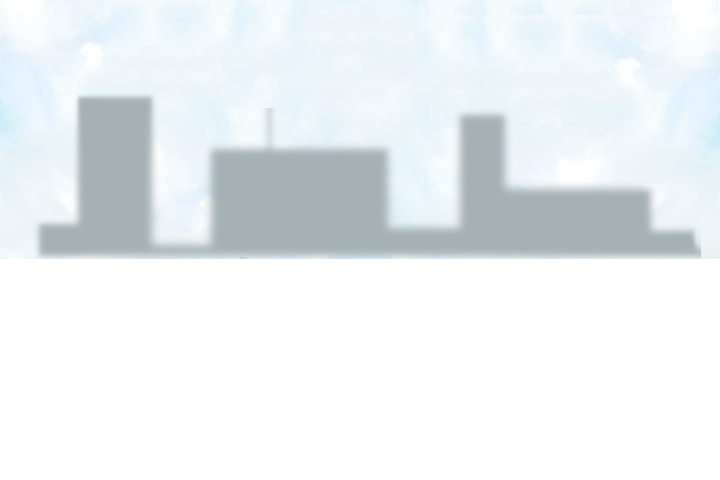
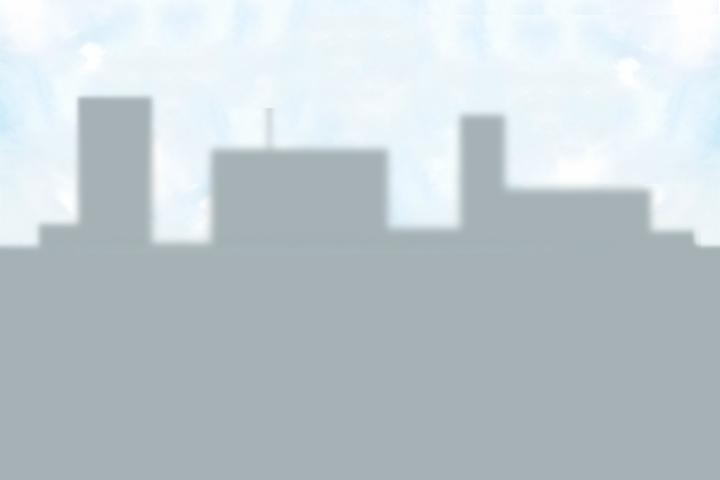
Background optimiert

diff --git a/Medieninformatik_Projekt/src/Player.java b/Medieninformatik_Projekt/src/Player.java
@@ -10,6 +10,12 @@ public class Player extends PApplet {
 	final int MAX_X = 340; // Maximal X-Koordinate beim Laufen
 	final int PLAYER_HEIGHT = 60;
 	final int PLAYER_WIDTH = 42;
+	
+	// Bilder
+	PImage idleImage;
+	PImage run1Image;
+	PImage run2Image;
+	PImage jumpImage;
 
 	// Zustände:
 	// vorwärts-blockiert, rückwärts-blockiert, kollision, stehen, rückwärts
@@ -33,6 +39,16 @@ public class Player extends PApplet {
 		this.x = x;
 		this.y = y;
 		this.states[3] = true; // Idle
+		
+		// Bilder laden
+		this.idleImage = this.game.app.loadImage(game.DEFAULT_IMAGEPATH
+				+ "hero_idle.png");
+		this.run1Image = this.game.app.loadImage(game.DEFAULT_IMAGEPATH
+				+ "hero_run1.png");
+		this.run2Image = this.game.app.loadImage(game.DEFAULT_IMAGEPATH
+				+ "hero_run2.png");
+		this.jumpImage = this.game.app.loadImage(game.DEFAULT_IMAGEPATH
+				+ "hero_jump.png");
 	}
 
 	public void movePlayer(int x, int y) {
@@ -49,22 +65,18 @@ public class Player extends PApplet {
 		// Spielfigurbild zeichnen:
 		// Stehen
 		if (this.states[3] && this.isJumped == false) {
-			this.playerImage = this.game.app.loadImage(game.DEFAULT_IMAGEPATH
-					+ "hero_idle.png");
+			this.playerImage = this.idleImage;
 		}
 
 		// Springen
 		if (this.isJumped && this.states[3]) {
-			this.playerImage = this.game.app.loadImage(game.DEFAULT_IMAGEPATH
-					+ "hero_jump.png");
+			this.playerImage = this.jumpImage;
 		} else if (this.isJumped == false && this.states[3] == false) {
 			// Laufen
 			if (this.delay < 5) {
-				this.playerImage = this.game.app
-						.loadImage(game.DEFAULT_IMAGEPATH + "hero_run1.png");
+				this.playerImage = this.run1Image;
 			} else {
-				this.playerImage = this.game.app
-						.loadImage(game.DEFAULT_IMAGEPATH + "hero_run2.png");
+				this.playerImage = this.run2Image;
 			}
 		}
 

diff --git a/Medieninformatik_Projekt/src/Background.java b/Medieninformatik_Projekt/src/Background.java
@@ -26,21 +26,21 @@ public class Background {
 		this.game.app.beginShape(this.game.app.QUADS);
 		this.game.app.texture(this.backgroundImage);
 		this.game.app.vertex(this.x, this.y + 0, 1, 0, 0);
-		this.game.app.vertex(this.x + game.WINDOW_WIDTH, this.y + 0, 1, 1, 0);
-		this.game.app.vertex(this.x + game.WINDOW_WIDTH, this.y + game.WINDOW_HEIGHT, 1, 1, 1);
-		this.game.app.vertex(this.x, this.y + game.WINDOW_HEIGHT, 1, 0, 1);
+		this.game.app.vertex(this.x + this.backgroundImage.width, this.y + 0, 1, 1, 0);
+		this.game.app.vertex(this.x + this.backgroundImage.width, this.y + this.backgroundImage.height, 1, 1, 1);
+		this.game.app.vertex(this.x, this.y + this.backgroundImage.height, 1, 0, 1);
 		this.game.app.endShape();
 
 		// Endloser Hintergrund 
 		this.game.app.beginShape(this.game.app.QUADS);
 		this.game.app.texture(this.backgroundImage);
-		this.game.app.vertex(this.x + game.WINDOW_WIDTH, this.y + 0, 1, 0, 0);
-		this.game.app.vertex(this.x + game.WINDOW_WIDTH * 2, this.y + 0, 1, 1, 0);
-		this.game.app.vertex(this.x + game.WINDOW_WIDTH * 2, this.y + game.WINDOW_HEIGHT, 1, 1, 1);
-		this.game.app.vertex(this.x + game.WINDOW_WIDTH, this.y + game.WINDOW_HEIGHT, 1, 0, 1);
+		this.game.app.vertex(this.x + this.backgroundImage.width, this.y + 0, 1, 0, 0);
+		this.game.app.vertex(this.x + this.backgroundImage.width * 2, this.y + 0, 1, 1, 0);
+		this.game.app.vertex(this.x + this.backgroundImage.width * 2, this.y + this.backgroundImage.height, 1, 1, 1);
+		this.game.app.vertex(this.x + this.backgroundImage.width, this.y + this.backgroundImage.height, 1, 0, 1);
 		this.game.app.endShape();
 
-		if (this.x < game.WINDOW_WIDTH * (-1)) {
+		if (this.x < this.backgroundImage.width * (-1)) {
 			this.x = 0;
 		}
 		// ...

diff --git a/Medieninformatik_Projekt/src/Level.java b/Medieninformatik_Projekt/src/Level.java
@@ -21,6 +21,7 @@ public class Level {
 	// Level starten
 	public Level(Game game) {
 		this.game = game;
+		this.logoImage = this.game.app.loadImage(game.DEFAULT_IMAGEPATH + "logo.png");
 		this.levelShadowBackground = new Background(game, game.DEFAULT_IMAGEPATH
 				+ "shadowbg.png");
 		this.levelBackground = new Background(game, game.DEFAULT_IMAGEPATH
@@ -71,18 +72,20 @@ public class Level {
 		this.levelShadowBackground.drawBackground();
 		this.levelBackground.drawBackground();
 		this.hero.drawPlayer();
-	//	this.logoImage = this.game.app.loadImage(game.DEFAULT_IMAGEPATH + "logo.png");
+		
+		this.game.app.noStroke();
 		this.game.app.beginShape();
 		this.game.app.texture(logoImage);
-		this.game.app.vertex(10, 10, 3, 0, 0);
-		this.game.app.vertex(300, 10, 3, 1, 0);
-		this.game.app.vertex(300, 100, 3, 1, 1);
-		this.game.app.vertex(10, 100, 3, 0, 1);
+		this.game.app.vertex(0+15, 0+15, 3, 0, 0);
+		this.game.app.vertex(168+15, 0+15, 3, 1, 0);
+		this.game.app.vertex(168+15, 30+15, 3, 1, 1);
+		this.game.app.vertex(0+15, 30+15, 3, 0, 1);
+		this.game.app.endShape();
+		
 		this.game.app.textSize(24);
 		this.game.app.text("CreditPoints: " + this.game.sumCreditPoints, 500,
 				34, 2);
 		this.game.app.fill(0, 0, 0);
-		this.game.app.endShape();
 
 		inMission = false;
 

diff --git a/Medieninformatik_Projekt/src/Mission.java b/Medieninformatik_Projekt/src/Mission.java
@@ -104,17 +104,6 @@ public class Mission {
 					this.isSolved = true;
 				}
 
-				// Spieler vorbewegen
-				// for (LvlObject lvlObject : this.game.hsrwLvl.lvlObjects) {
-				// if (lvlObject.mission != null) {
-				// if (lvlObject.collided) {
-				// this.game.hsrwLvl.hero.movePlayer(
-				// this.game.hsrwLvl.hero.PLAYER_WIDTH
-				// + lvlObject.width, 0);
-				// }
-				// }
-				// }
-
 				this.isCompleted = true;
 			}
 
